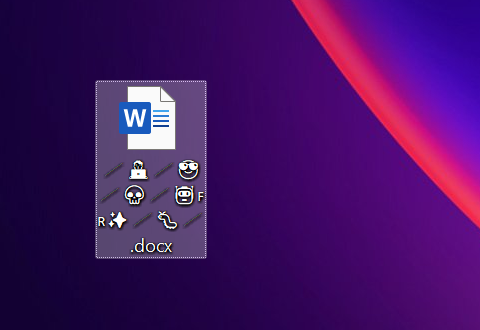
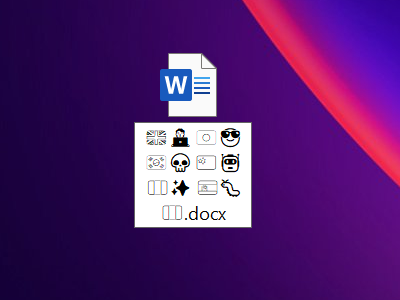
📝 Update screenshots and README

diff --git a/README.md b/README.md
@@ -33,6 +33,18 @@ And now you too can say *"No!"* to Windows, *"I want the flag emojis that everyo
 
 This font is based on Segoe UI Emoji v1.60 ([3D Fluent 16.0](https://emojipedia.org/microsoft-3D-fluent/fluent-16.0); Win11 25H2; 2025-08-29) and contains 262 flags from Twemoji v17.0.3 ([`jdecked/twemoji`](https://github.com/jdecked/twemoji)@[`b6b55fe`](https://github.com/jdecked/twemoji/commit/b6b55fef1e8636b540a6d016a4729ca8cdf2e60b) 2026-06-01). You can build it yourself, if you'd like (see the "How to build from scratch" section in the end).
 
+
+
+## Latest update v2.1.0 (31 Jul 2026)
+
+- 🔨 Remade the entire build process with Make.
+- 📸 **Now includes new 17.0 emojis that aren't yet in Fluent 3D.**
+- 🔳 **Added black-and-white rendering support for older apps (see #12).**
+- 🔧 A partial fix for rendering in VSCode's xterm.js terminal (see #13).
+- ⚡ Optimized the assets with SVGO, and upgraded build scripts API.
+
+<img src="./img/upd-bw-glyphs.png" />
+
 ## Major update v2.0.0 (6 Jul 2026)
 
 - ✨ **Added support for COLRv0 rendering! Now works on Windows 8-10 too.**
@@ -41,6 +53,7 @@ This font is based on Segoe UI Emoji v1.60 ([3D Fluent 16.0](https://emojipedia.
 - 📏 Fixed the relative width and size of the emojis. Now they're the same size as others.
 
 <img src="./img/upd-flag-width.png" width="399" />
+
 
 
 ## Table of contents
